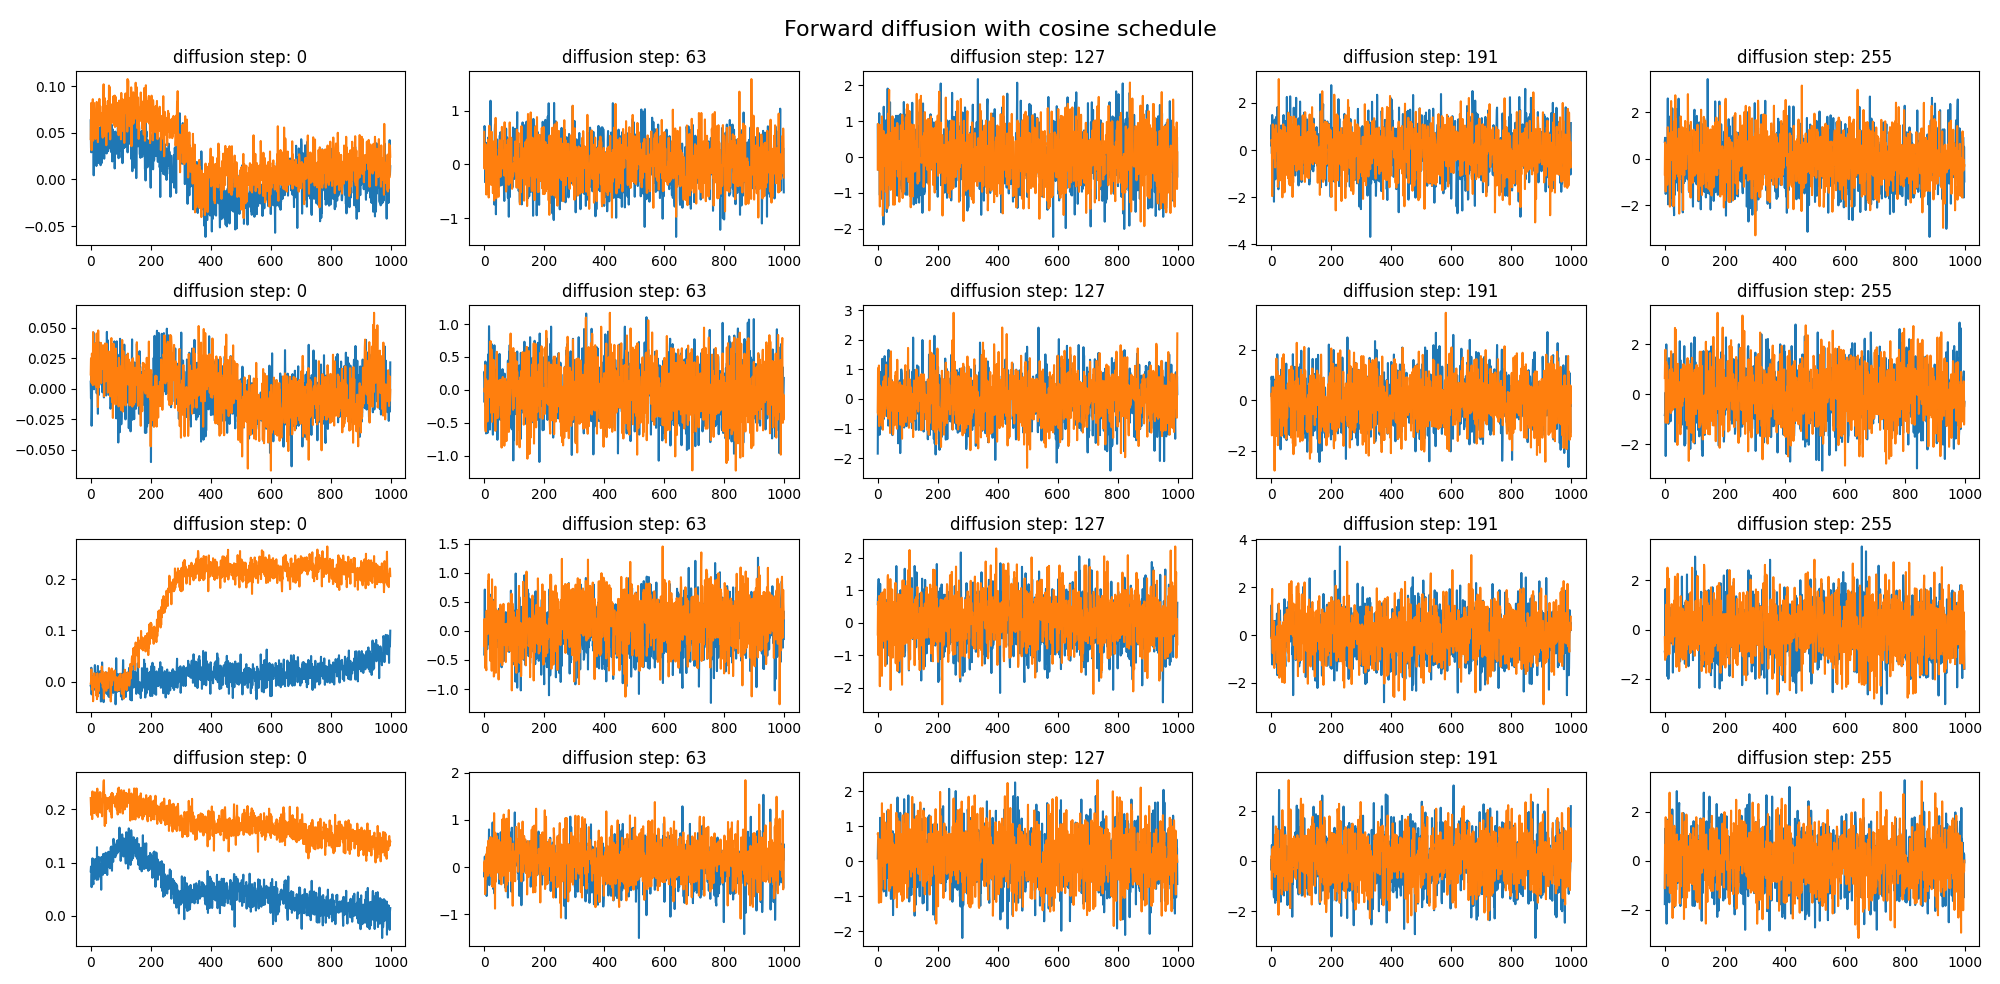
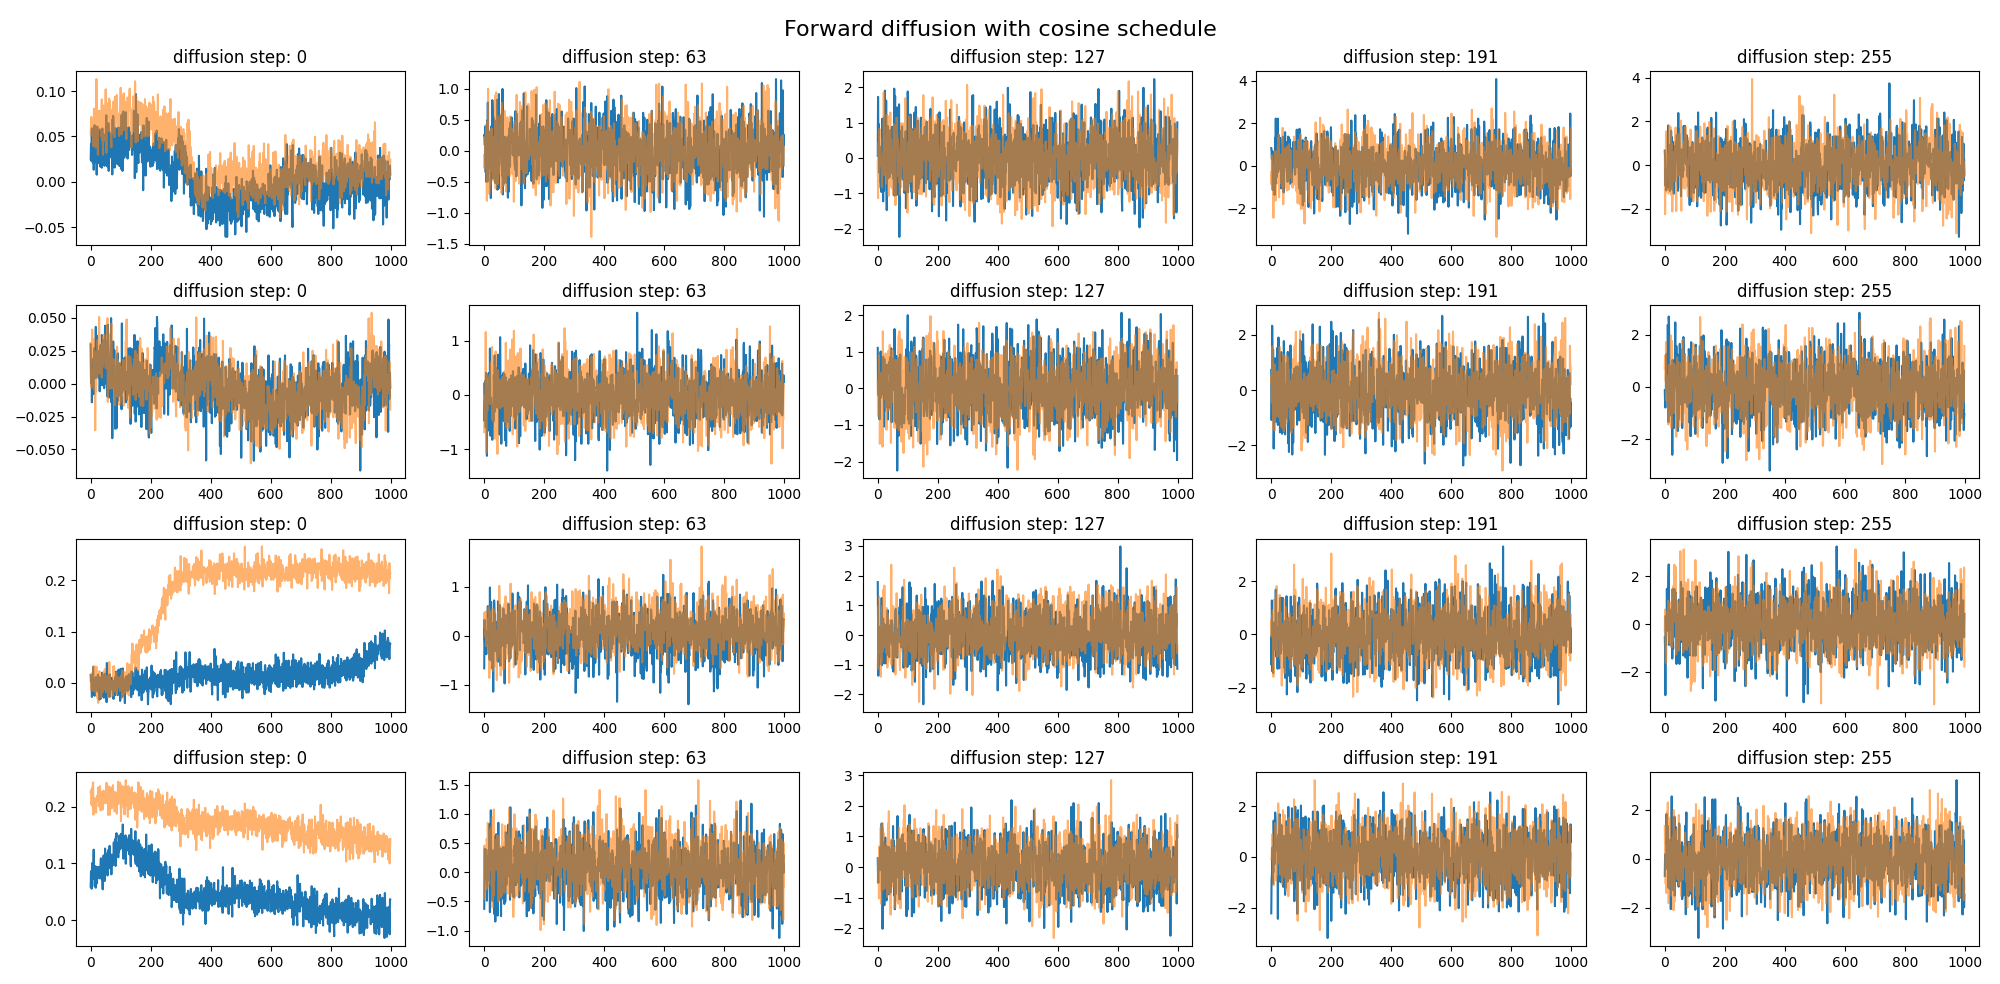
MIDI-35: Forward diffusion process

diff --git a/tests/forward_diffusion_test.py b/tests/forward_diffusion_test.py
@@ -22,16 +22,22 @@ def preprocess_dataset(dataset_name: str, batch_size: int, num_workers: int):
 
 if __name__ == "__main__":
     # load data
-    _, _, test_dataloader = preprocess_dataset("roszcz/ecg-segmentation-ltafdb", 4, 1)
+    _, _, test_dataloader = preprocess_dataset("roszcz/ecg-segmentation-ltafdb", 128, 1)
 
     # initialing random input
     records = next(iter(test_dataloader))
     signal = records["signal"]
+    mask = records["mask"]
 
     schedule_type = "sigmoid"
 
     # initialize forward diffusion
     fdiff = ForwardDiffusion(beta_start=0.0001, beta_end=0.02, timesteps=256, schedule_type=schedule_type)
+
+    # find signals where the are heartbeats
+    indices = torch.tensor([idx for idx in range(len(mask)) if mask[idx].sum() > 0], dtype=torch.long)
+    idx = indices[0:4]
+    signal = signal[idx]
 
     # timesteps for visualization
     t = torch.tensor([0, 63, 127, 191, 255], dtype=torch.long)
@@ -65,7 +71,7 @@ if __name__ == "__main__":
 
             # plot channels
             sns.lineplot(s[0], ax=ax)
-            sns.lineplot(s[1], ax=ax)
+            sns.lineplot(s[1], alpha=0.6, ax=ax)
             ax.set_title(plot_titles[j])
 
     plt.tight_layout()
